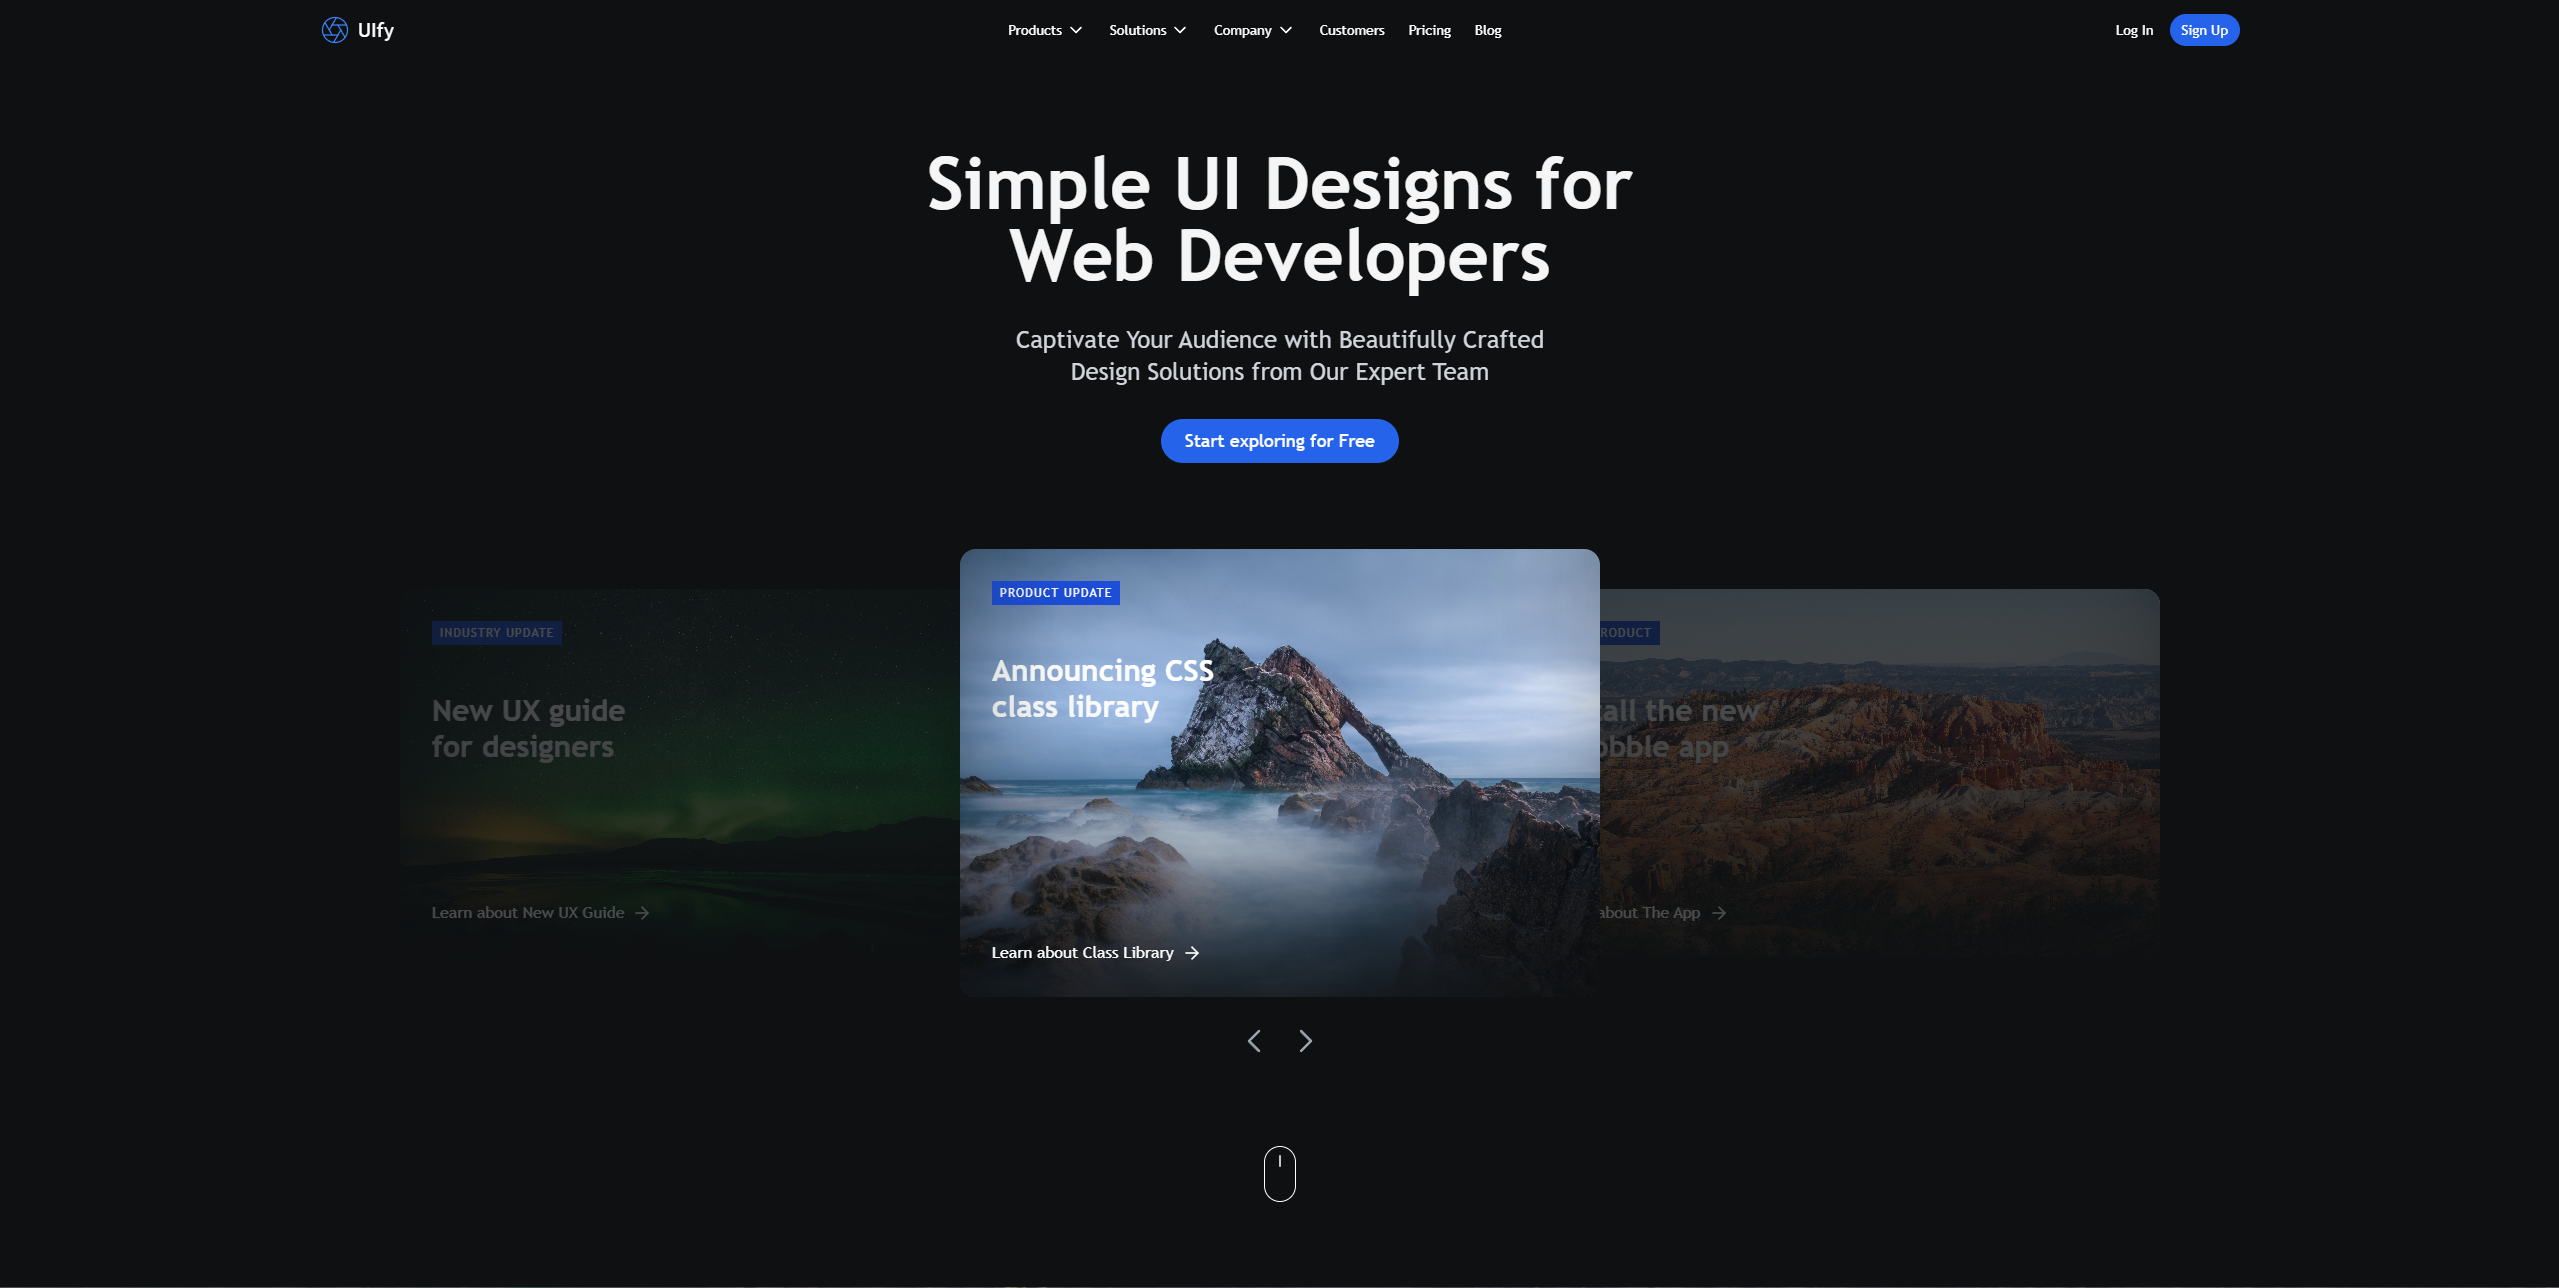
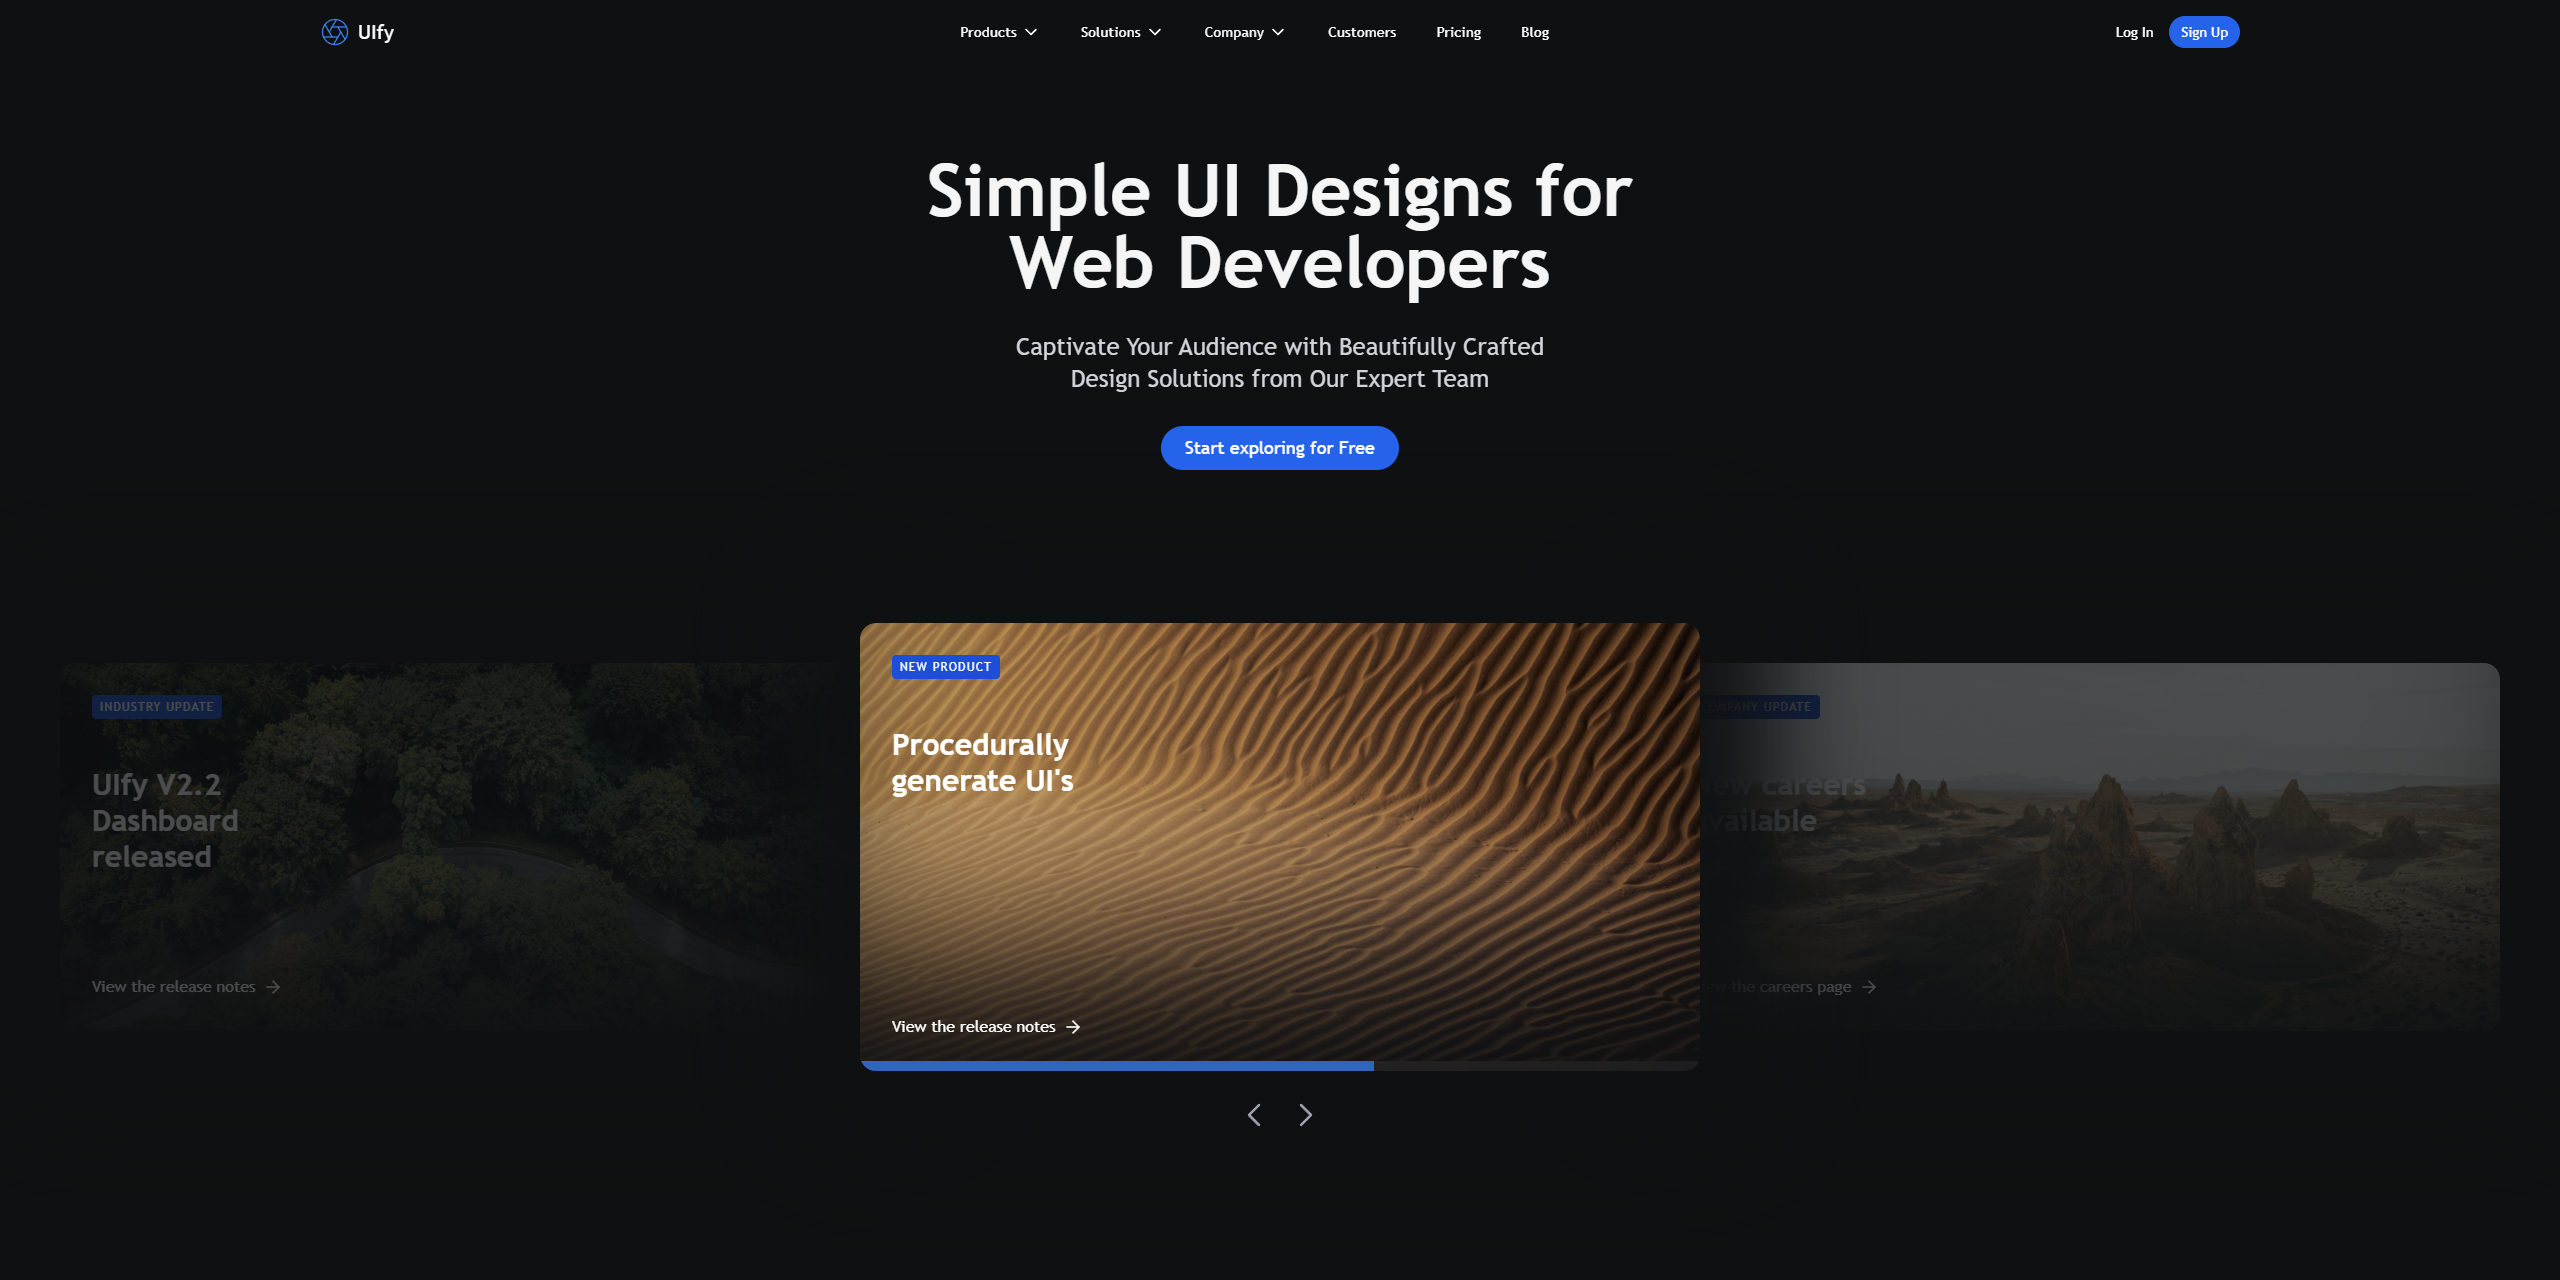
Remove pause play functionality, won't be added Progress bar and overflow styling update preview.png and README.md

diff --git a/src/components/Slide.jsx b/src/components/Slide.jsx
@@ -1,5 +1,5 @@
-import React, { useEffect, useState } from 'react';
-import { ArrowRight, Pause, Play } from 'react-feather';
+import React, { useEffect, useRef } from 'react';
+import { ArrowRight } from 'react-feather';
 import { useSwipeable } from 'react-swipeable';
 import useSlideWidth from '../hooks/useSlideWidth';
 
@@ -9,11 +9,12 @@ const Types = {
 };
 
 const { REACT_APP_DURATION } = process.env;
+
 function Slide({
   label, title, cta, image, index, currentSlide, setSlide, center, slides, type, setDuration, duration,
 }) {
   const slideWidth = useSlideWidth();
-  const [isPlaying, setIsPlaying] = useState(false);
+  const progressBarRef = useRef();
 
   const offset = 40;
 
@@ -67,37 +68,35 @@ function Slide({
   useEffect(
     () => {
       // Update the width of the progress bar in the current slide and animate the width for each second
-      const progressBar = document.querySelector(`#progress-${currentSlide}`);
-
       if (currentSlide === index && type === Types.Video) {
         const video = document.querySelector(`#video-${index}`);
-        setDuration(Math.round(video.duration * 1000));
-        video.currentTime = 0;
-        video.play();
-        progressBar.animate(
+
+        progressBarRef.current.animate(
           [
             {
               width: `${0}%`,
             },
             {
               width: `${100}%`,
-
             },
           ],
           {
             duration: video.duration * 1000,
           },
         );
+
+        setDuration(Math.round(video.duration * 1000));
+        video.currentTime = 0;
+        video.play();
       } else if (currentSlide === index && type === Types.Image) {
         setDuration(parseInt(REACT_APP_DURATION, 10));
-        progressBar.animate(
+        progressBarRef.current.animate(
           [
             {
               width: `${0}%`,
             },
             {
               width: `${100}%`,
-
             },
           ],
           {
@@ -128,7 +127,7 @@ function Slide({
       ${index === currentSlide ? 'bg-woodsmoke/25 pointer-events-none' : 'bg-woodsmoke/75'}`}
       />
       <div
-        className={`w-full rounded-2xl text-white group relative cursor-pointer shadow-slide-drop
+        className={`w-full rounded-2xl text-white group relative cursor-pointer shadow-slide-drop overflow-hidden
         ${type === Types.Image && 'p-6 lg:p-8 flex flex-col gap-y-2 justify-between'}  
         ${index === currentSlide ? 'h-[20rem] lg:h-[23rem] xl:h-[28rem]' : 'h-[18rem] lg:h-[20rem] xl:h-[23rem] z-0'} 
         `}
@@ -136,7 +135,7 @@ function Slide({
         {type === Types.Image ? (
           <>
             <div
-              className="absolute z-0 top-0 left-0 w-full h-full rounded-xl shadow-slide bg-cover"
+              className="absolute z-0 top-0 left-0 w-full h-full rounded-2xl shadow-slide bg-cover"
               style={{ backgroundImage: `url(${image})` }}
             />
             <div className="flex z-10 flex-col gap-y-6 xl:gap-y-12 max-w-[10rem]w lg:max-w-[14rem]">
@@ -161,7 +160,7 @@ function Slide({
           <>
             <video
               id={`video-${index}`}
-              className="w-full h-full object-cover rounded-xl"
+              className="w-full h-full object-cover rounded-2xl"
               playsInline
               muted
               autoPlay
@@ -175,22 +174,14 @@ function Slide({
             >
               {label}
             </span>
-            <div className="flex z-10 w-full h-full group-hover:opacity-100 opacity-0
-            flex-col justify-center items-center absolute top-0 left-0 transition-all"
-            >
-              {isPlaying ? (
-                <Play className="fill-white" size={60} onClick={() => setIsPlaying(false)} />
-              ) : (
-                <Pause className="fill-white" size={60} onClick={() => setIsPlaying(true)} />
-              )}
-            </div>
           </>
         )}
         <div className={`${index === currentSlide ? 'block' : 'hidden'} 
-        absolute left-0 bottom-0 w-full h-1 md:h-2 bg-gray-500 rounded-b-2xl overflow-hidden`}
+        absolute left-0 bottom-0 w-full h-1.5 md:h-2.5 bg-neutral-600/25 backdrop-blur-md
+        rounded-b-2xl overflow-hidden`}
         >
           <div
-            id={`progress-${index}`}
+            ref={progressBarRef}
             className="bg-blue-500 h-full"
           />
         </div>

diff --git a/src/components/Header.jsx b/src/components/Header.jsx
@@ -56,6 +56,7 @@ function Header() {
           <Button text="Sign Up" />
           <button
             type="button"
+            name="menu"
             onClick={() => setShowMenu(!showMenu)}
             className="flex flex-col justify-center gap-y-2 items-center relative w-10"
           >

diff --git a/README.md b/README.md
@@ -2,8 +2,15 @@
 
 [![Netlify Status](https://api.netlify.com/api/v1/badges/e550366a-64aa-4db4-9201-a19ccdb063bf/deploy-status)](https://app.netlify.com/sites/ui-design-2/deploys)
 
+Any ideas or suggestions for this project are welcome!
 
-This project might receive updates in the future regarding the landing page and carousel functionality.
+If you yourself have a design you want to see in code, feel free to open an issue and i'll try to make it!
+
+Pull requests are also welcome!
+
+---
+
+# The Application
 
 ![preview.png](preview.png)
 ### Live preview available [here](https://ui-design-2.netlify.com/)
@@ -11,3 +18,24 @@ This project might receive updates in the future regarding the landing page and 
 ## How do i use this?
 
 when cloning just run ```npm install``` to install all the dependencies then run ```npm start``` to start it.
+
+---
+
+# Features/Updates
+
+## What will be added?
+- More pages
+- Dropdowns for the navbar
+- More sections for the landing page
+
+## What has been added?
+- Mobile Responsiveness
+- Mobile Navbar
+- Functional Carousel
+- Video Support for the carousel
+
+## What will not be added?
+- Play/Pause functionality for the carousel
+
+## What are known issues?
+- The carousel doesn't resize properly when the window is resized
